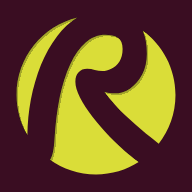
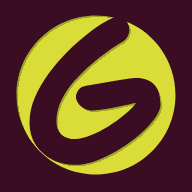
new name

Changed region(s): [[0.125, 0.0625, 0.8438, 0.9062], [0.2188, 0.1562, 0.25, 0.1875]]

diff --git a/index.html b/index.html
@@ -3,8 +3,8 @@
 <head>
   <meta charset="utf-8">
   <meta name="viewport" content="width=device-width, initial-scale=1, viewport-fit=cover">
-  <title>Rond Point ou Fake</title>
-  <meta name="description" content="Deux images, une seule vraie photo de rond-point. Saurez-vous la repérer face à une fausse image d'IA ?">
+  <title>Giratoire ou Fake</title>
+  <meta name="description" content="Deux images, une seule vraie photo de giratoire. Saurez-vous la repérer face à une fausse image d'IA ?">
   <meta name="theme-color" content="#3A0D22">
   <link rel="manifest" href="manifest.json">
   <link rel="icon" href="icons/icon.svg" type="image/svg+xml">
@@ -14,7 +14,7 @@
     (function () {
       var root = document.documentElement;
       try {
-        var m = JSON.parse(localStorage.getItem('rondpointoufake:v2') || '{}');
+        var m = JSON.parse(localStorage.getItem('giratoireoufake:v2') || localStorage.getItem('rondpointoufake:v2') || '{}');
         var s = m.settings || {};
         var t = s.theme || 'dark';
         if (t === 'auto') t = matchMedia('(prefers-color-scheme: light)').matches ? 'light' : 'dark';
@@ -29,9 +29,9 @@
   <div class="app">
 
     <header class="topbar">
-      <a class="brand" href="./" aria-label="Rond Point ou Fake">
+      <a class="brand" href="./" aria-label="Giratoire ou Fake">
         <img src="icons/icon.svg" alt="" width="44" height="44">
-        <span class="brand-name">Rond Point <em>ou Fake</em></span>
+        <span class="brand-name">Giratoire <em>ou Fake</em></span>
       </a>
       <div class="actions">
         <button class="btn btn-ghost btn-icon" id="btn-install" type="button" hidden>
@@ -83,7 +83,7 @@
       <!-- Écran d'accueil -->
       <section id="view-start" class="panel start" hidden>
         <img class="start-mark" src="icons/icon.svg" alt="" width="104" height="104">
-        <h1>Vrai rond-point<br>ou <em>fake</em> ?</h1>
+        <h1>Vrai giratoire<br>ou <em>fake</em> ?</h1>
         <p class="lead">Deux images par tour : une vraie photo, une fausse générée par IA. Une erreur et c'est fini.</p>
 
         <fieldset class="field levels">
@@ -174,7 +174,7 @@
     <form method="dialog">
       <h2>Comment jouer</h2>
       <ol class="rules">
-        <li>Chaque tour affiche deux images : une vraie photo de rond-point et une fausse générée par IA.</li>
+        <li>Chaque tour affiche deux images : une vraie photo de giratoire et une fausse générée par IA.</li>
         <li>Choisis un niveau : <strong>Facile</strong> (IA grossières), <strong>Moyen</strong> (IA crédibles) ou <strong>Difficile</strong> (IA très réussies).</li>
         <li>Clique sur l'image que tu crois authentique (ou touche <kbd>1</kbd> ou <kbd>2</kbd>).</li>
         <li><strong>Mort subite</strong> : une seule mauvaise réponse et la partie s'arrête.</li>

diff --git a/app.js b/app.js
@@ -1,11 +1,12 @@
 /* ============================================================
-   Rond Point ou Fake — logique de jeu
+   Giratoire ou Fake — logique de jeu
    Mort subite · niveaux de difficulté · thèmes · sons
    ============================================================ */
 (() => {
   'use strict';
 
-  const STORE_KEY = 'rondpointoufake:v2';
+  const STORE_KEY = 'giratoireoufake:v2';
+  const LEGACY_KEY = 'rondpointoufake:v2'; // ancien nom : sauvegarde migrée automatiquement
   const OLD_KEYS = ['rondpointoufake:v1'];
   const CATALOG_URL = 'data/images.json';
   const BASE_POINTS = 100;
@@ -55,7 +56,11 @@
     const base = emptyMemory();
     try {
       OLD_KEYS.forEach((k) => localStorage.removeItem(k));
-      const raw = localStorage.getItem(STORE_KEY);
+      let raw = localStorage.getItem(STORE_KEY);
+      if (!raw) {
+        raw = localStorage.getItem(LEGACY_KEY); // reprise de la sauvegarde sous l'ancien nom
+        if (raw) { localStorage.setItem(STORE_KEY, raw); localStorage.removeItem(LEGACY_KEY); }
+      }
       if (!raw) return base;
       const d = JSON.parse(raw);
       const best = emptyBest();

diff --git a/style.css b/style.css
@@ -1,5 +1,5 @@
 /* ============================================================
-   Rond Point ou Fake — direction artistique tirée de icon.svg
+   Giratoire ou Fake — direction artistique tirée de icon.svg
    fond bordeaux #3A0D22 · accent jaune-vert #DADD38
    Thèmes : sombre (défaut) / clair · mode daltonien (bleu + orange)
    ============================================================ */

diff --git a/sw.js b/sw.js
@@ -1,6 +1,6 @@
 /* Service worker — fonctionnement hors ligne */
-const VERSION = 'v3';
-const CACHE = `rondpointoufake-${VERSION}`;
+const VERSION = 'v4';
+const CACHE = `giratoireoufake-${VERSION}`;
 
 const SHELL = [
   './',
